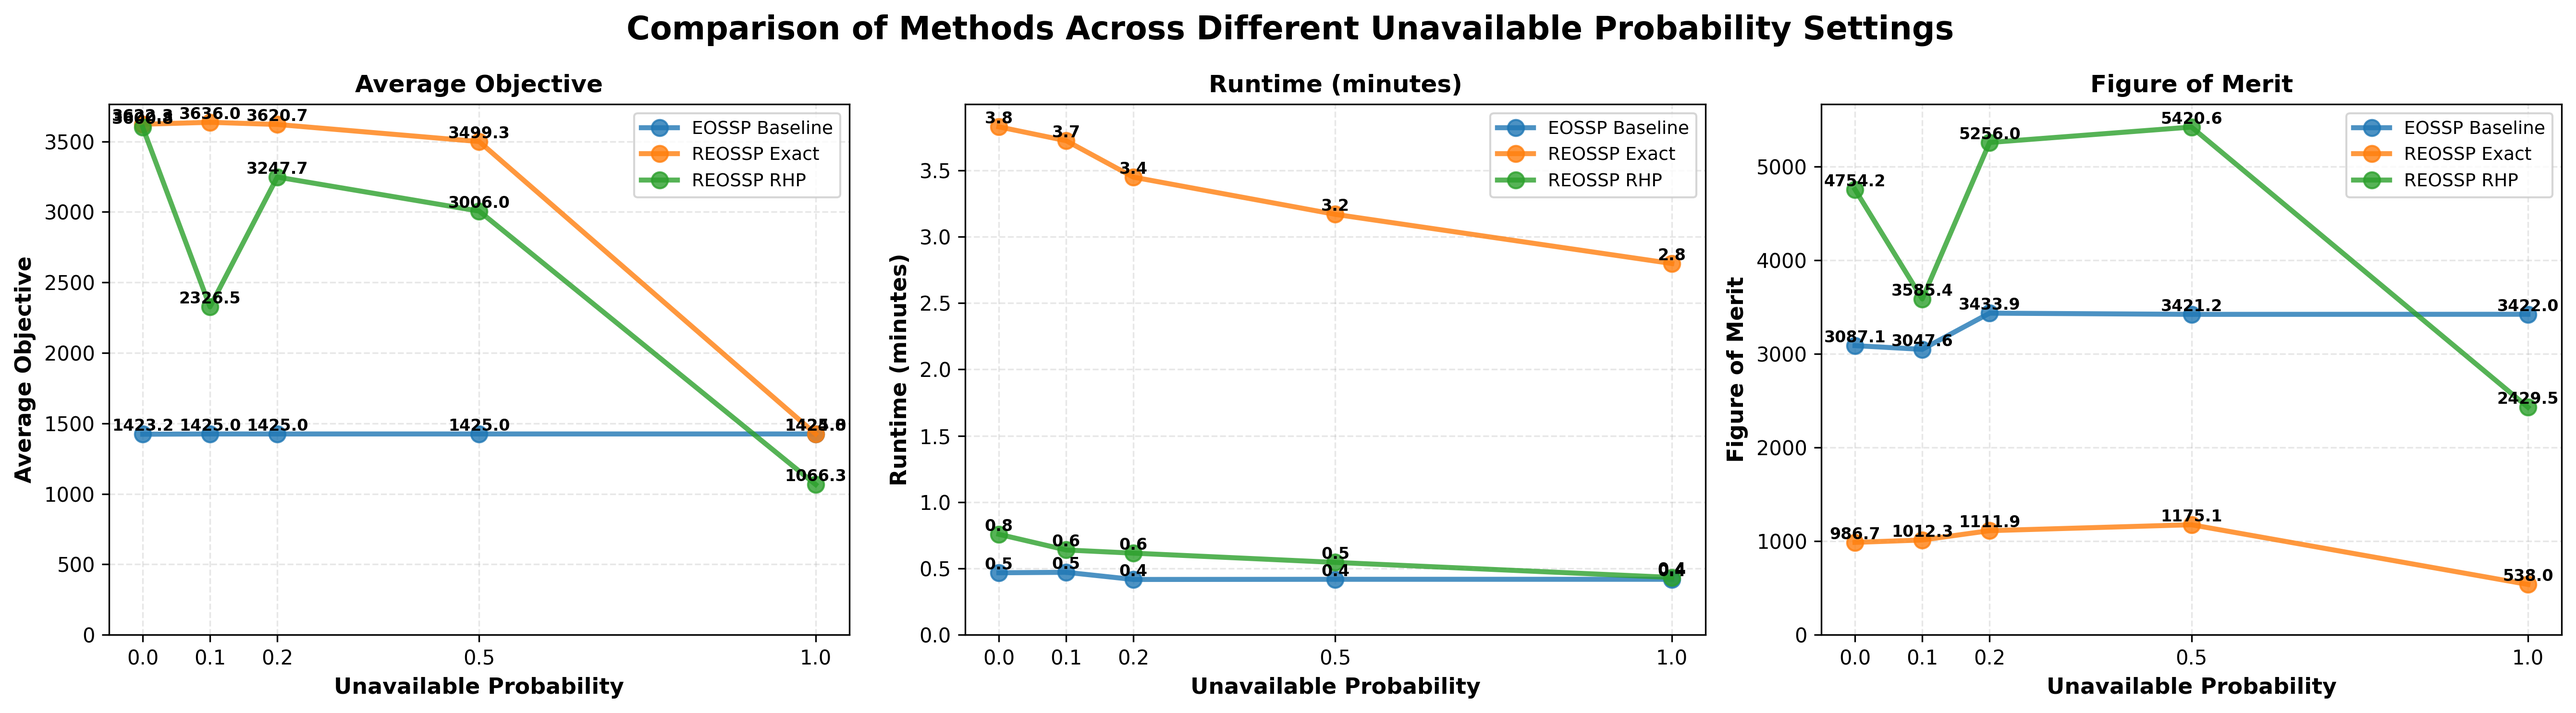
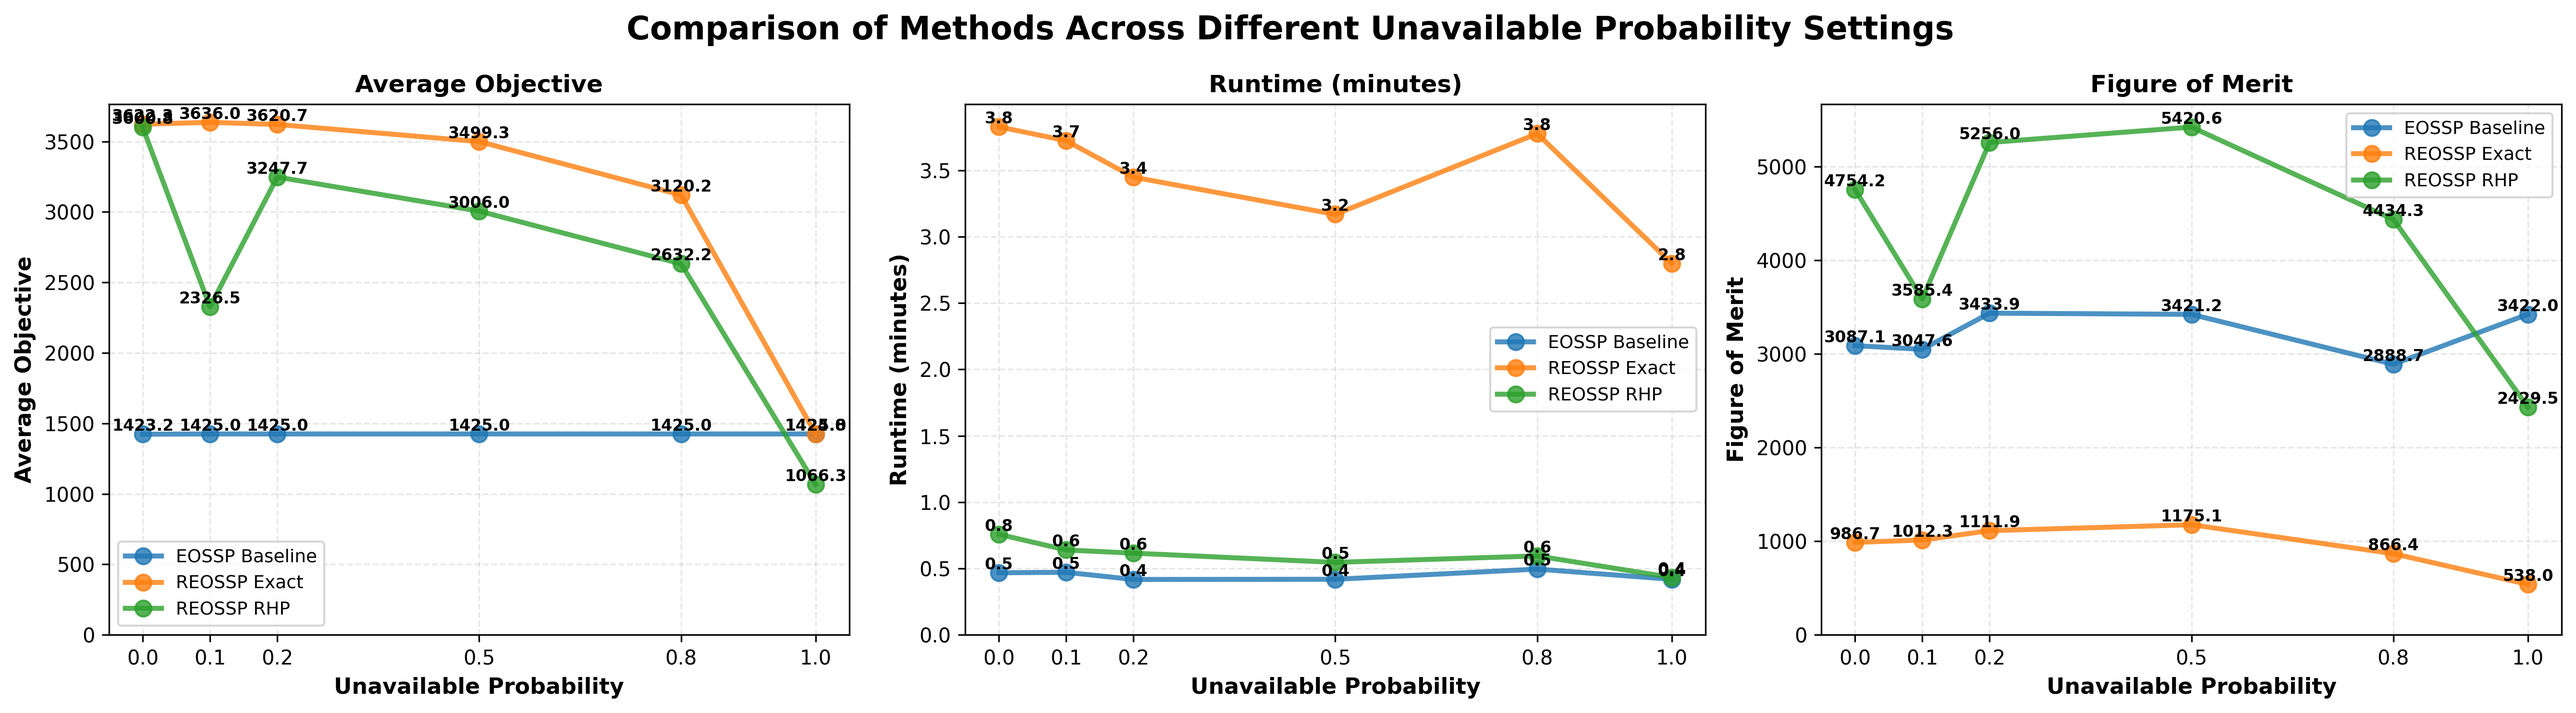
tp_ga_v2

diff --git a/visualize_temp_comparison.py b/visualize_temp_comparison.py
@@ -1,6 +1,6 @@
 """
-Temporary visualization comparing 4 methods at unavailable_prob = 0.1
-Compares: EOSSP Baseline, REOSSP Exact, REOSSP RHP, REOSSP Two-Phase GA
+Temporary visualization comparing 5 methods at unavailable_prob = 0.1
+Compares: EOSSP Baseline, REOSSP Exact, REOSSP RHP, REOSSP Two-Phase GA v1, REOSSP Two-Phase GA v2
 """
 
 import pandas as pd
@@ -12,30 +12,34 @@ import os
 os.makedirs('visualizations', exist_ok=True)
 
 print("="*80)
-print("COMPARING 4 METHODS AT UNAVAILABLE_PROB = 0.1")
+print("COMPARING 5 METHODS AT UNAVAILABLE_PROB = 0.1")
 print("="*80)
 
 # Read the result files
 df_baseline = pd.read_csv('results/results_0.1.csv')  # Has EOSSP, REOSSP Exact, REOSSP RHP
-df_tp_ga = pd.read_csv('results/results_tp_ga.csv')    # Has Two-Phase GA
+df_tp_ga_v1 = pd.read_csv('results/results_tp_ga_v1.csv')    # Has Two-Phase GA v1
+df_tp_ga_v2 = pd.read_csv('results/results_tp_ga_v2.csv')    # Has Two-Phase GA v2
 
 print(f"\nBaseline methods data: {len(df_baseline)} instances")
-print(f"Two-Phase GA data: {len(df_tp_ga)} instances")
+print(f"Two-Phase GA v1 data: {len(df_tp_ga_v1)} instances")
+print(f"Two-Phase GA v2 data: {len(df_tp_ga_v2)} instances")
 
 # Filter Two-Phase GA for unavailable_prob = 0.1 (baseline is already filtered by filename)
-df_tp_ga = df_tp_ga[df_tp_ga['unavailable_prob'] == 0.1].copy()
+df_tp_ga_v1 = df_tp_ga_v1[df_tp_ga_v1['unavailable_prob'] == 0.1].copy()
+df_tp_ga_v2 = df_tp_ga_v2[df_tp_ga_v2['unavailable_prob'] == 0.1].copy()
 
 print(f"\nBaseline methods (already filtered): {len(df_baseline)} instances")
-print(f"Filtered Two-Phase GA: {len(df_tp_ga)} instances")
+print(f"Filtered Two-Phase GA v1: {len(df_tp_ga_v1)} instances")
+print(f"Filtered Two-Phase GA v2: {len(df_tp_ga_v2)} instances")
 
 # Get unique S-K pairs
 SK_pairs = sorted(df_baseline[['S', 'K']].drop_duplicates().values.tolist())
 print(f"\nS-K pairs: {SK_pairs}")
 
 # Prepare data for plotting
-methods = ['EOSSP Baseline', 'REOSSP Exact', 'REOSSP RHP', 'REOSSP Two-Phase GA']
-colors = ['#1f77b4', '#ff7f0e', '#2ca02c', '#d62728']
-markers = ['o', 's', '^', 'D']
+methods = ['EOSSP Baseline', 'REOSSP Exact', 'REOSSP RHP', 'REOSSP TP-GA v1', 'REOSSP TP-GA v2']
+colors = ['#1f77b4', '#ff7f0e', '#2ca02c', '#d62728', '#9467bd']
+markers = ['o', 's', '^', 'D', 'v']
 
 # Create x-axis labels from S-K pairs
 x_labels = [f"S={s}, K={k}" for s, k in SK_pairs]
@@ -45,21 +49,21 @@ x_pos = np.arange(len(x_labels))
 metrics = {
     'Objective': {
         'ylabel': 'Objective Value',
-        'columns': ['eossp_objective', 'reossp_exact_objective', 'reossp_rhp_objective', 'tp_ga_objective']
+        'columns': ['eossp_objective', 'reossp_exact_objective', 'reossp_rhp_objective', 'tp_ga_objective', 'tp_ga_objective']
     },
     'Runtime': {
         'ylabel': 'Runtime (minutes)',
-        'columns': ['eossp_runtime_minutes', 'reossp_exact_runtime_minutes', 'reossp_rhp_runtime_minutes', 'tp_ga_runtime_minutes']
+        'columns': ['eossp_runtime_minutes', 'reossp_exact_runtime_minutes', 'reossp_rhp_runtime_minutes', 'tp_ga_runtime_minutes', 'tp_ga_runtime_minutes']
     },
     'Figure of Merit': {
         'ylabel': 'Figure of Merit (Obj/Runtime)',
-        'columns': ['eossp_figure_of_merit', 'reossp_exact_figure_of_merit', 'reossp_rhp_figure_of_merit', 'tp_ga_figure_of_merit']
+        'columns': ['eossp_figure_of_merit', 'reossp_exact_figure_of_merit', 'reossp_rhp_figure_of_merit', 'tp_ga_figure_of_merit', 'tp_ga_figure_of_merit']
     }
 }
 
 # Create figure with subplots
-fig, axes = plt.subplots(1, 3, figsize=(21, 7))
-fig.suptitle('Method Comparison at Unavailable Probability = 0.1', fontsize=18, fontweight='bold')
+fig, axes = plt.subplots(1, 3, figsize=(22, 7))
+fig.suptitle('Method Comparison at Unavailable Probability = 0.1 (v1 vs v2)', fontsize=18, fontweight='bold')
 
 # Flatten axes for easier iteration
 axes = axes.flatten()
@@ -72,21 +76,24 @@ for idx, (metric_name, metric_info) in enumerate(metrics.items()):
     
     for i, (s, k) in enumerate(SK_pairs):
         row_baseline = df_baseline[(df_baseline['S'] == s) & (df_baseline['K'] == k)]
-        row_tp_ga = df_tp_ga[(df_tp_ga['S'] == s) & (df_tp_ga['K'] == k)]
+        row_tp_ga_v1 = df_tp_ga_v1[(df_tp_ga_v1['S'] == s) & (df_tp_ga_v1['K'] == k)]
+        row_tp_ga_v2 = df_tp_ga_v2[(df_tp_ga_v2['S'] == s) & (df_tp_ga_v2['K'] == k)]
         
-        if len(row_baseline) > 0 and len(row_tp_ga) > 0:
+        if len(row_baseline) > 0 and len(row_tp_ga_v1) > 0 and len(row_tp_ga_v2) > 0:
             # Get values for each method
             values = []
             for col_idx, col_name in enumerate(metric_info['columns']):
                 if col_name is None:
                     values.append(0)  # No data for this method
-                elif col_idx < 3:  # Baseline methods
+                elif col_idx < 3:  # Baseline methods (EOSSP, Exact, RHP)
                     values.append(row_baseline[col_name].values[0])
-                else:  # Two-Phase GA
-                    values.append(row_tp_ga[col_name].values[0])
+                elif col_idx == 3:  # Two-Phase GA v1
+                    values.append(row_tp_ga_v1[col_name].values[0])
+                else:  # Two-Phase GA v2
+                    values.append(row_tp_ga_v2[col_name].values[0])
             data_by_method.append(values)
         else:
-            data_by_method.append([0, 0, 0, 0])
+            data_by_method.append([0, 0, 0, 0, 0])
     
     # Convert to numpy array for easier manipulation
     data_by_method = np.array(data_by_method)  # Shape: (n_pairs, n_methods)
@@ -114,10 +121,9 @@ for idx, (metric_name, metric_info) in enumerate(metrics.items()):
     ax.grid(True, alpha=0.3, linestyle='--')
     ax.set_ylim(bottom=0)
 
-# Adjust layout and save
 plt.tight_layout()
-plt.savefig('visualizations/temp_4methods_comparison_0.1.png', dpi=300, bbox_inches='tight')
-print("\n✓ Visualization saved to: visualizations/temp_4methods_comparison_0.1.png")
+plt.savefig('visualizations/temp_4methods_comparison_0.1_v2.png', dpi=300, bbox_inches='tight')
+print("\n✓ Visualization saved to: visualizations/temp_4methods_comparison_0.1_v2.png")
 
 print("\n" + "="*80)
 print("VISUALIZATION COMPLETE")

diff --git a/reossp_two_phase_ga.py b/reossp_two_phase_ga.py
@@ -329,22 +329,37 @@ class REOSSPTwoPhaseGA:
     
     def crossover(self, ind1: List, ind2: List) -> Tuple[List, List]:
         """
-        Custom crossover: swap entire satellite trajectories
-        Preserves per-satellite propellant budget constraints
-        
-        Args:
-            ind1, ind2: Parent individuals
-        
-        Returns:
-            Two offspring individuals
+        Stage-level single-point crossover with propellant feasibility check
+        Split all satellites at same stage boundary
+        If offspring violate propellant budget, reject crossover
         """
         K = len(ind1)
+        S = len(ind1[0])
         
-        # Randomly decide which satellites to swap
+        # Save original individuals in case we need to reject crossover
+        ind1_original = [row[:] for row in ind1]
+        ind2_original = [row[:] for row in ind2]
+        
+        # Random split point between stages
+        split_point = random.randint(1, S - 1)
+        
+        # Swap all satellites' trajectories after split point
         for k in range(K):
-            if random.random() < 0.5:
-                # Swap entire trajectory for satellite k
-                ind1[k], ind2[k] = ind2[k][:], ind1[k][:]
+            ind1[k][split_point:], ind2[k][split_point:] = \
+                ind2[k][split_point:], ind1[k][split_point:]
+        
+        # Check if offspring are propellant-feasible
+        traj1 = np.array(ind1, dtype=int)
+        traj2 = np.array(ind2, dtype=int)
+        
+        feasible1 = self.is_propellant_feasible(traj1)
+        feasible2 = self.is_propellant_feasible(traj2)
+        
+        # If either offspring is infeasible, reject crossover (restore parents)
+        if not feasible1 or not feasible2:
+            for k in range(K):
+                ind1[k] = ind1_original[k]
+                ind2[k] = ind2_original[k]
         
         return ind1, ind2
     

diff --git a/visualize_comparison.py b/visualize_comparison.py
@@ -11,6 +11,7 @@ df_0_0 = pd.read_csv('results/results_0.0.csv')
 df_0_1 = pd.read_csv('results/results_0.1.csv')
 df_0_2 = pd.read_csv('results/results_0.2.csv')
 df_0_5 = pd.read_csv('results/results_0.5.csv')
+df_0_8 = pd.read_csv('results/results_0.8.csv')
 df_1_0 = pd.read_csv('results/results_1.0.csv')
 
 # Add unavailable_probability column to each dataframe
@@ -18,10 +19,11 @@ df_0_0['unavailable_prob'] = 0.0
 df_0_1['unavailable_prob'] = 0.1
 df_0_2['unavailable_prob'] = 0.2
 df_0_5['unavailable_prob'] = 0.5
+df_0_8['unavailable_prob'] = 0.8
 df_1_0['unavailable_prob'] = 1.0
 
 # Combine all dataframes
-df_all = pd.concat([df_0_0, df_0_1, df_0_2, df_0_5, df_1_0], ignore_index=True)
+df_all = pd.concat([df_0_0, df_0_1, df_0_2, df_0_5, df_0_8, df_1_0], ignore_index=True)
 
 # Calculate averages for each method and unavailable probability
 metrics = {
@@ -43,7 +45,7 @@ metrics = {
 }
 
 # Prepare data for plotting
-unavailable_probs = [0.0, 0.1, 0.2, 0.5, 1.0]
+unavailable_probs = [0.0, 0.1, 0.2, 0.5, 0.8, 1.0]
 methods = ['EOSSP Baseline', 'REOSSP Exact', 'REOSSP RHP']
 colors = ['#1f77b4', '#ff7f0e', '#2ca02c']
 

diff --git a/visualize_with_tp_ga.py b/visualize_with_tp_ga.py
@@ -24,6 +24,7 @@ df_0_0 = pd.read_csv('results/results_0.0.csv')
 df_0_1 = pd.read_csv('results/results_0.1.csv')
 df_0_2 = pd.read_csv('results/results_0.2.csv')
 df_0_5 = pd.read_csv('results/results_0.5.csv')
+df_0_8 = pd.read_csv('results/results_0.8.csv')
 df_1_0 = pd.read_csv('results/results_1.0.csv')
 
 # Add unavailable_probability column to each dataframe
@@ -31,11 +32,11 @@ df_0_0['unavailable_prob'] = 0.0
 df_0_1['unavailable_prob'] = 0.1
 df_0_2['unavailable_prob'] = 0.2
 df_0_5['unavailable_prob'] = 0.5
+df_0_8['unavailable_prob'] = 0.8
 df_1_0['unavailable_prob'] = 1.0
 
 # Combine all dataframes
-df_all = pd.concat([df_0_0, df_0_1, df_0_2, df_0_5, df_1_0], ignore_index=True)
-
+df_all = pd.concat([df_0_0, df_0_1, df_0_2, df_0_5, df_0_8, df_1_0], ignore_index=True)
 # Read Two-Phase GA results
 try:
     df_tp_ga = pd.read_csv('results/results_tp_ga.csv')

diff --git a/run_tp_ga.py b/run_tp_ga.py
@@ -17,7 +17,7 @@ print("="*80)
 # Problem parameters
 SK_pairs = [(8, 5), (8, 6), (9, 5), (9, 6), (12, 5), (12, 6)]
 # unavailable_probs = [0.0, 0.1, 0.2, 0.5, 1.0]
-SK_pairs = [(8, 6), (9, 5), (9, 6), (12, 5), (12, 6)]
+SK_pairs = [(8, 5)]
 unavailable_probs = [0.1]
 J_sk, T = 20, 36*24*2
 
@@ -26,7 +26,7 @@ pop_size = 50
 n_generations = 30
 
 # Initialize CSV file
-csv_filename = "results/results_tp_ga.csv"
+csv_filename = "results/results_tp_ga_v2.csv"
 file_exists = os.path.isfile(csv_filename)
 
 # Counter for instance ID

diff --git a/run.py b/run.py
@@ -20,7 +20,7 @@ print("="*80)
 SK_pairs = [(8, 5), (8, 6), (9, 5), (9, 6), (12, 5), (12, 6)]
 J_sk, T = 20, 36*24*2
 time_limit_minutes = 60
-unavailable_slot_probability = 1.0
+unavailable_slot_probability = 0.8
 # Initialize CSV file
 csv_filename = f"results/results_{unavailable_slot_probability}.csv"
 file_exists = os.path.isfile(csv_filename)
